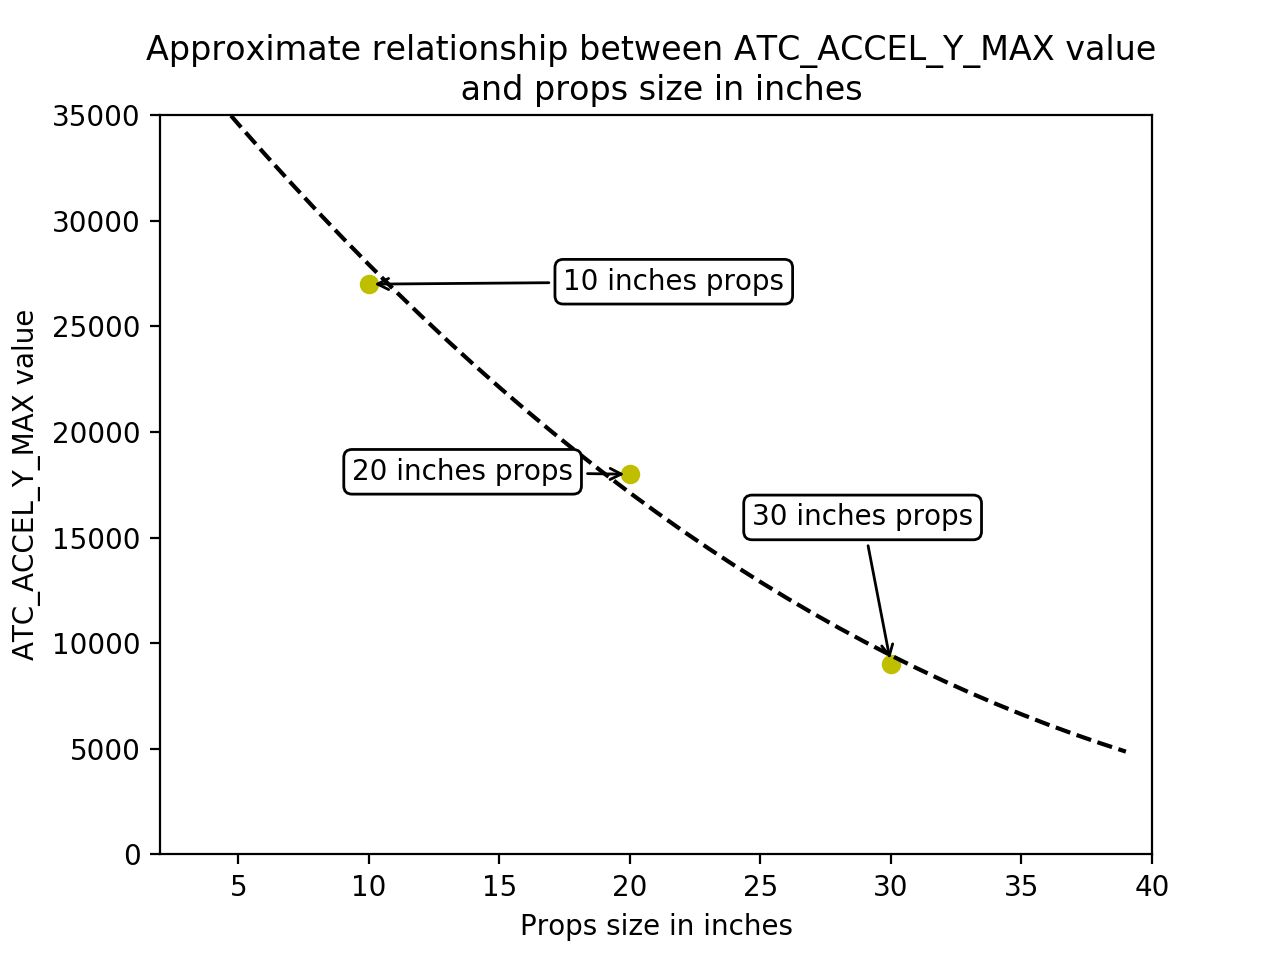
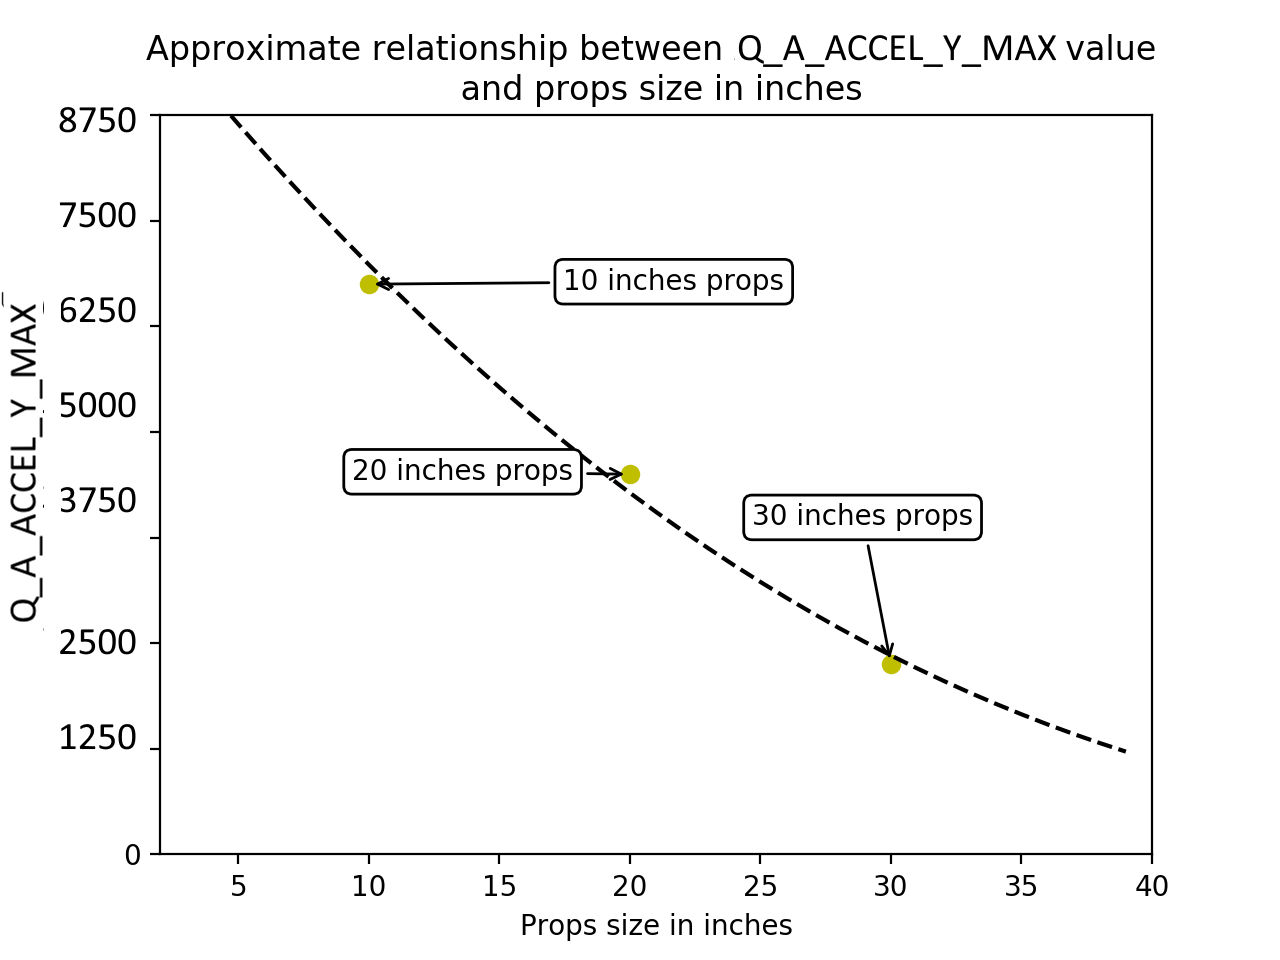
update quadplane tuning initial values

diff --git a/plane/source/docs/quadplane-vtol-tuning-process.rst b/plane/source/docs/quadplane-vtol-tuning-process.rst
@@ -100,7 +100,7 @@ vehicle. These parameters are critical to the tuning process.
 - :ref:`INS_GYRO_FILTER <INS_GYRO_FILTER>`: 80Hz for 5 inch props, 40Hz for 10 inch props, 20Hz for 20 inch props
 - :ref:`Q_A_ACCEL_P_MAX <Q_A_ACCEL_P_MAX>`: 110000 for 10 inch props, 50000 for 20 inch props, 20000 for 30 inch props
 - :ref:`Q_A_ACCEL_R_MAX <Q_A_ACCEL_R_MAX>`: 110000 for 10 inch props, 50000 for 20 inch props, 20000 for 30 inch props
-- :ref:`Q_A_ACCEL_Y_MAX <Q_A_ACCEL_Y_MAX>`: 27000 for 10 inch props, 18000 for 20 inch props, 9000 for 30 inch props
+- :ref:`Q_A_ACCEL_Y_MAX <Q_A_ACCEL_Y_MAX>`: 7500 for 6 inch props,6750 for 10 inch props, 4500 for 20 inch props, 2250 for 30 inch props
 - :ref:`Q_A_RAT_YAW_P <Q_A_RAT_YAW_P>`: 0.5 x :ref:`Q_A_ACCEL_Y_MAX <Q_A_ACCEL_Y_MAX>` / 4500
 
 
@@ -108,7 +108,7 @@ vehicle. These parameters are critical to the tuning process.
 - :ref:`Q_A_RAT_PIT_FLTT <Q_A_RAT_PIT_FLTT>`: :ref:`INS_GYRO_FILTER <INS_GYRO_FILTER>` / 2
 - :ref:`Q_A_RAT_RLL_FLTD <Q_A_RAT_RLL_FLTD>`: :ref:`INS_GYRO_FILTER <INS_GYRO_FILTER>` / 2
 - :ref:`Q_A_RAT_RLL_FLTT <Q_A_RAT_RLL_FLTT>`: :ref:`INS_GYRO_FILTER <INS_GYRO_FILTER>` / 2
-- :ref:`Q_A_RAT_YAW_FLTE <Q_A_RAT_YAW_FLTE>`: 2
+- :ref:`Q_A_RAT_YAW_FLTE <Q_A_RAT_YAW_FLTE>`: 0 for vectored yaw; 2.5 for other types of QuadPlanes
 - :ref:`Q_A_RAT_YAW_FLTT <Q_A_RAT_YAW_FLTT>`: :ref:`INS_GYRO_FILTER <INS_GYRO_FILTER>` / 2
 
 
